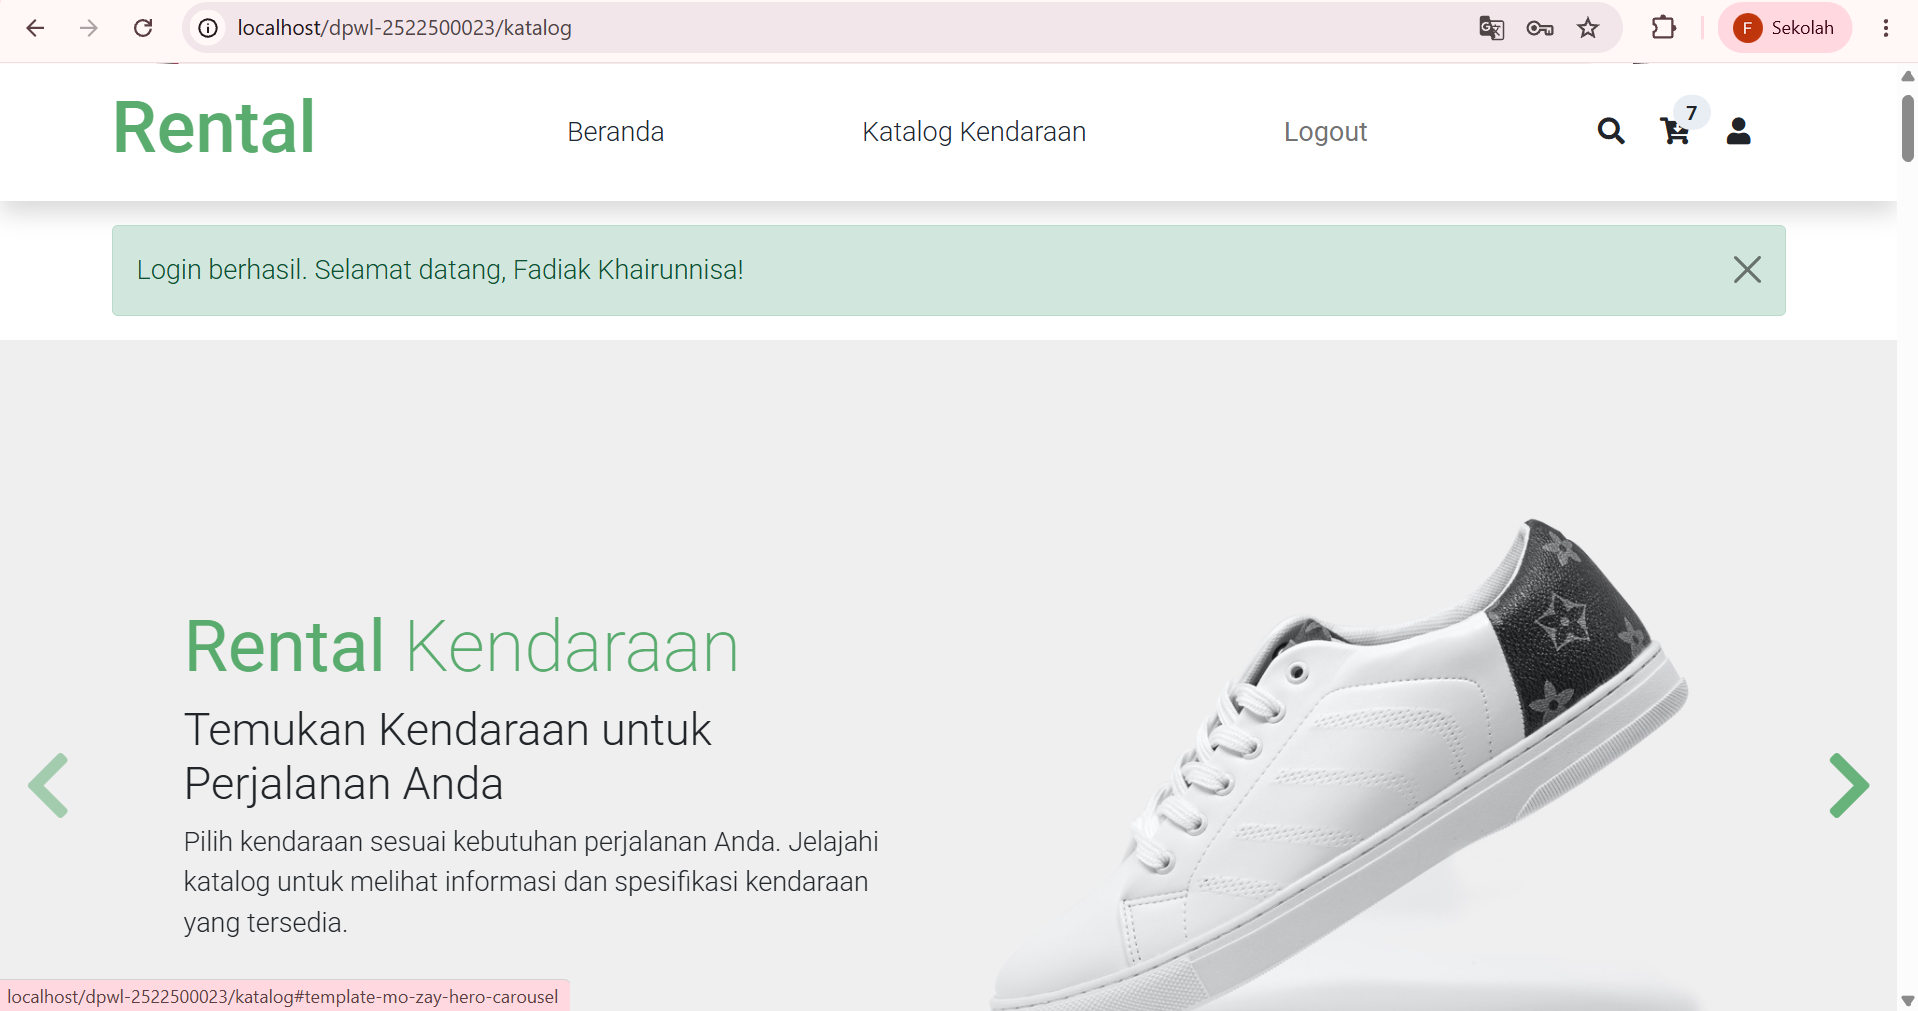
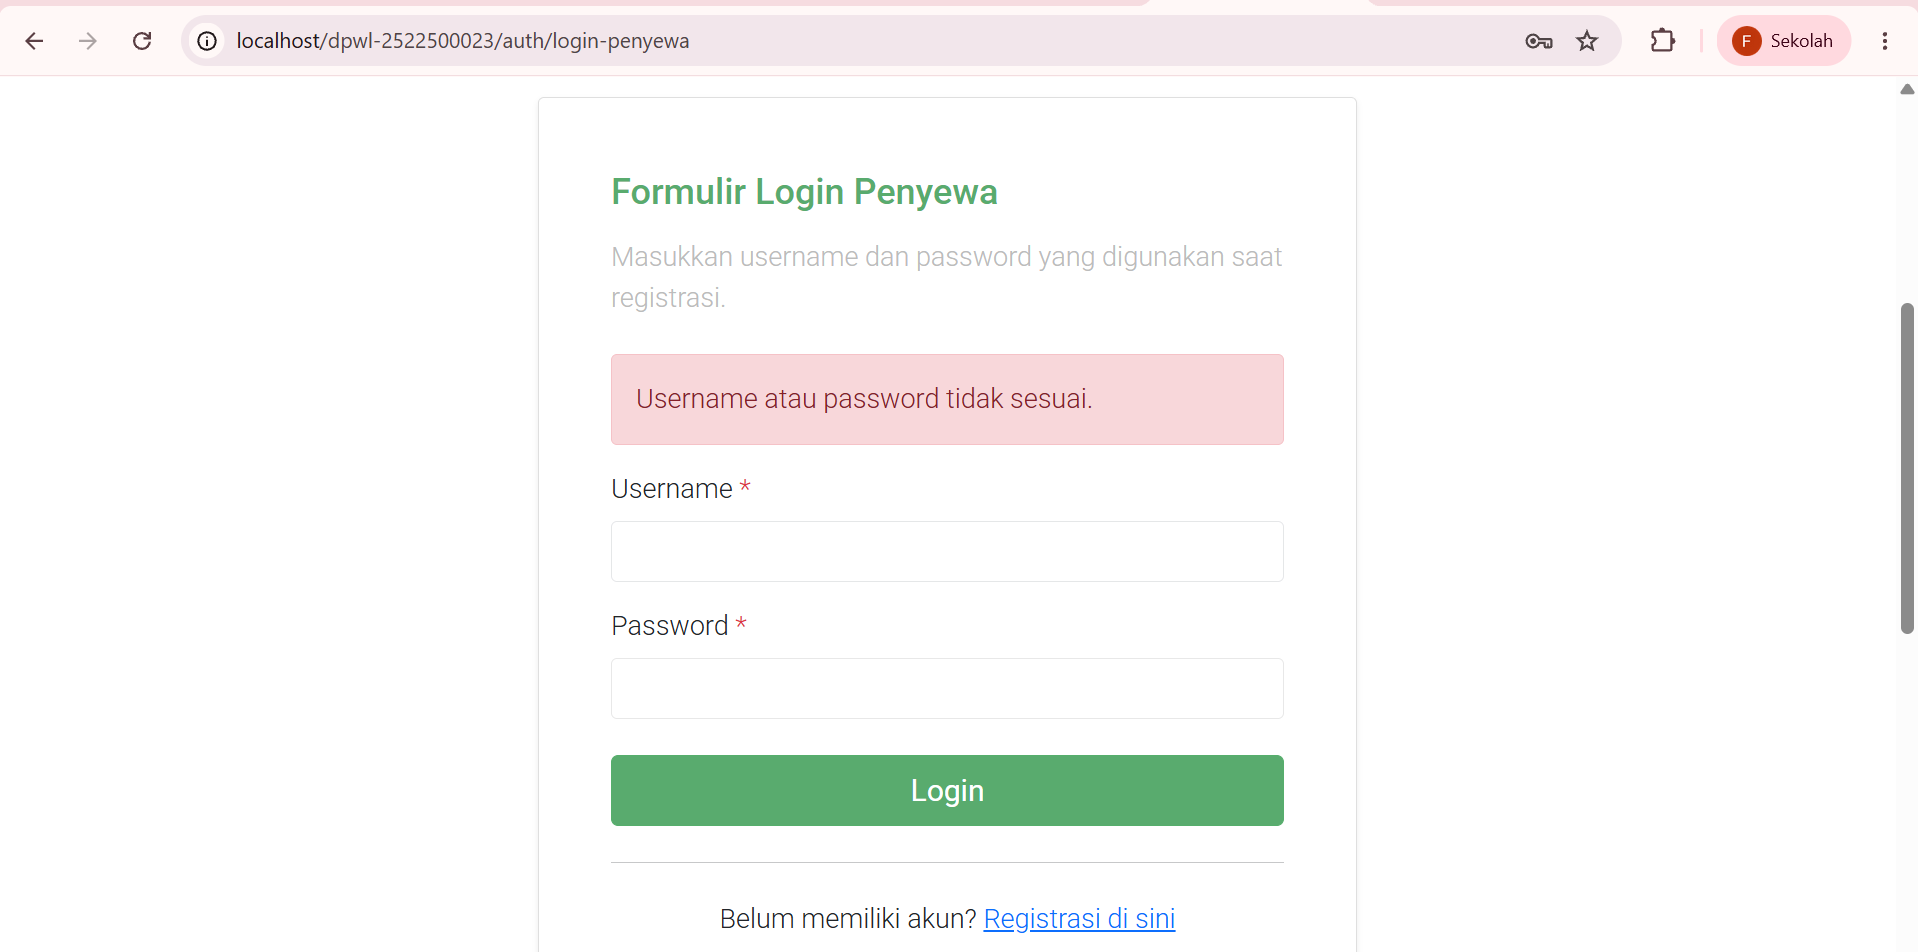
up

diff --git a/pertemuan-06/README.md b/pertemuan-06/README.md
@@ -14,3 +14,5 @@
 ![Hasil Pengujian 6](dokumentasi/HasilPengujian6.png)
 7. Hasil Pengujian 7
 ![Hasil Pengujian 7](dokumentasi/HasilPengujian7.png)
+8. Hasil Pengujian 8
+![Hasil pengujian 8](dokumentasi/HasilPengujian8.png)
